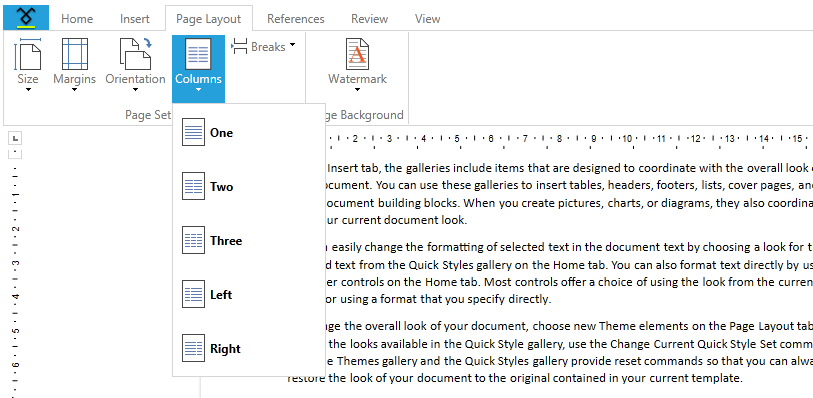
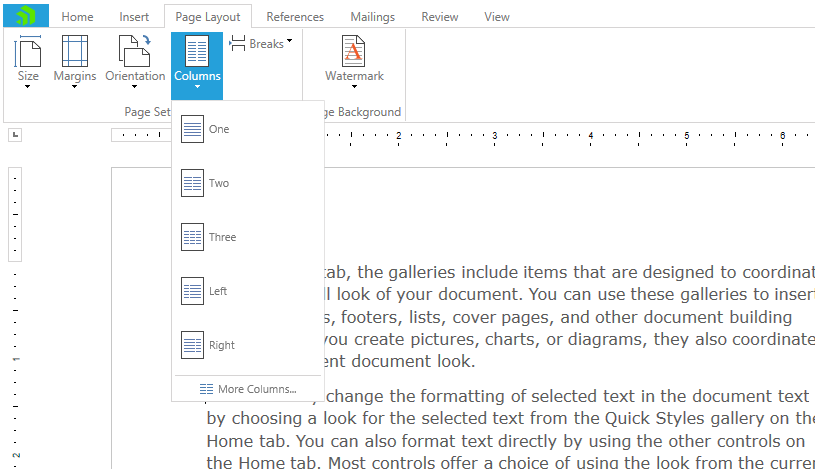
Update Section Columns UI article
Describe the new dialog for applying section columns.

diff --git a/controls/radrichtextbox/ui-for-applying-rich-text-formatting/section-columns.md b/controls/radrichtextbox/ui-for-applying-rich-text-formatting/section-columns.md
@@ -37,6 +37,8 @@ The Page Layout tab of [RadRichTextBoxRibbonUI]({%slug radrichtextbox-features-r
 
 * **Right**: Represents two text columns where the right one has a smaller width than the left one.
 
+* **More Columns...**: Opens the Section Columns Dialog that allows you set columns with custom width and spacing. 
+
 #### __Figure 3: Left option applied on a section__
 ![RadRichTextBox_Features_Section_Columns_02](images/RadRichTextBox_Features_Section_Columns_02.png)
 
@@ -47,7 +49,12 @@ When the Section contains columns with equal width, you can customize the width 
 #### __Figure 3: Customizing the width of a column__
 ![RadRichTextBox_Features_Section_Columns_04](images/RadRichTextBox_Features_Section_Columns_04.png)
 
-# See Also
+Another approach for applying different settings to section columns is through the Columns dialog.
+
+#### __Figure 4: Customizing the width and spacing of columns using dialog__
+![RadRichTextBox_Features_Section_Columns_04](images/RadRichTextBox_Features_Section_Columns_05.png)
+
+## See Also
 
 * [Section]({%slug radrichtextbox-features-document-elements-section%})
 * [RadDocument]({%slug radrichtextbox-features-document-elements-raddocument%})
